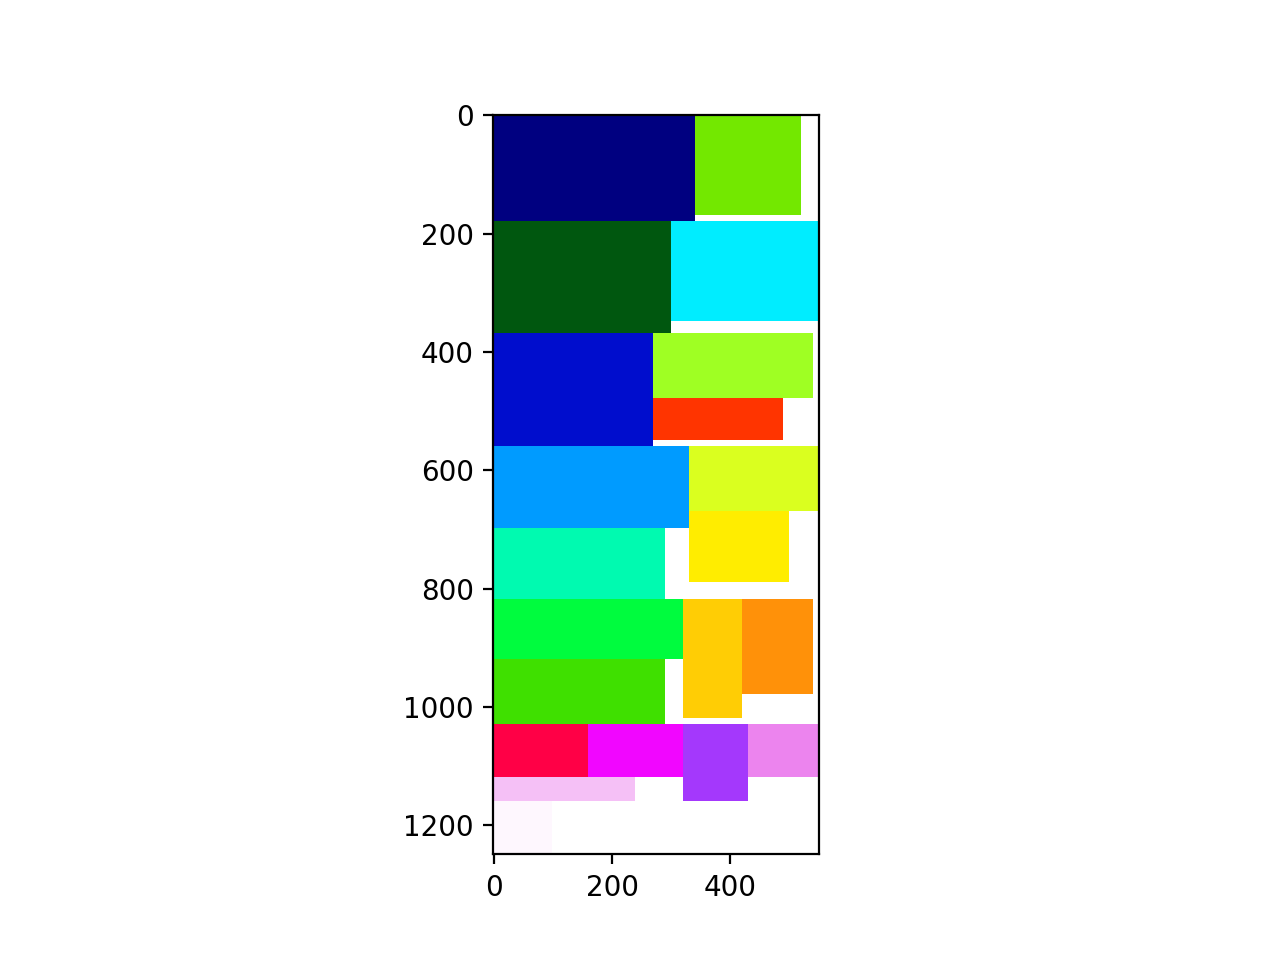
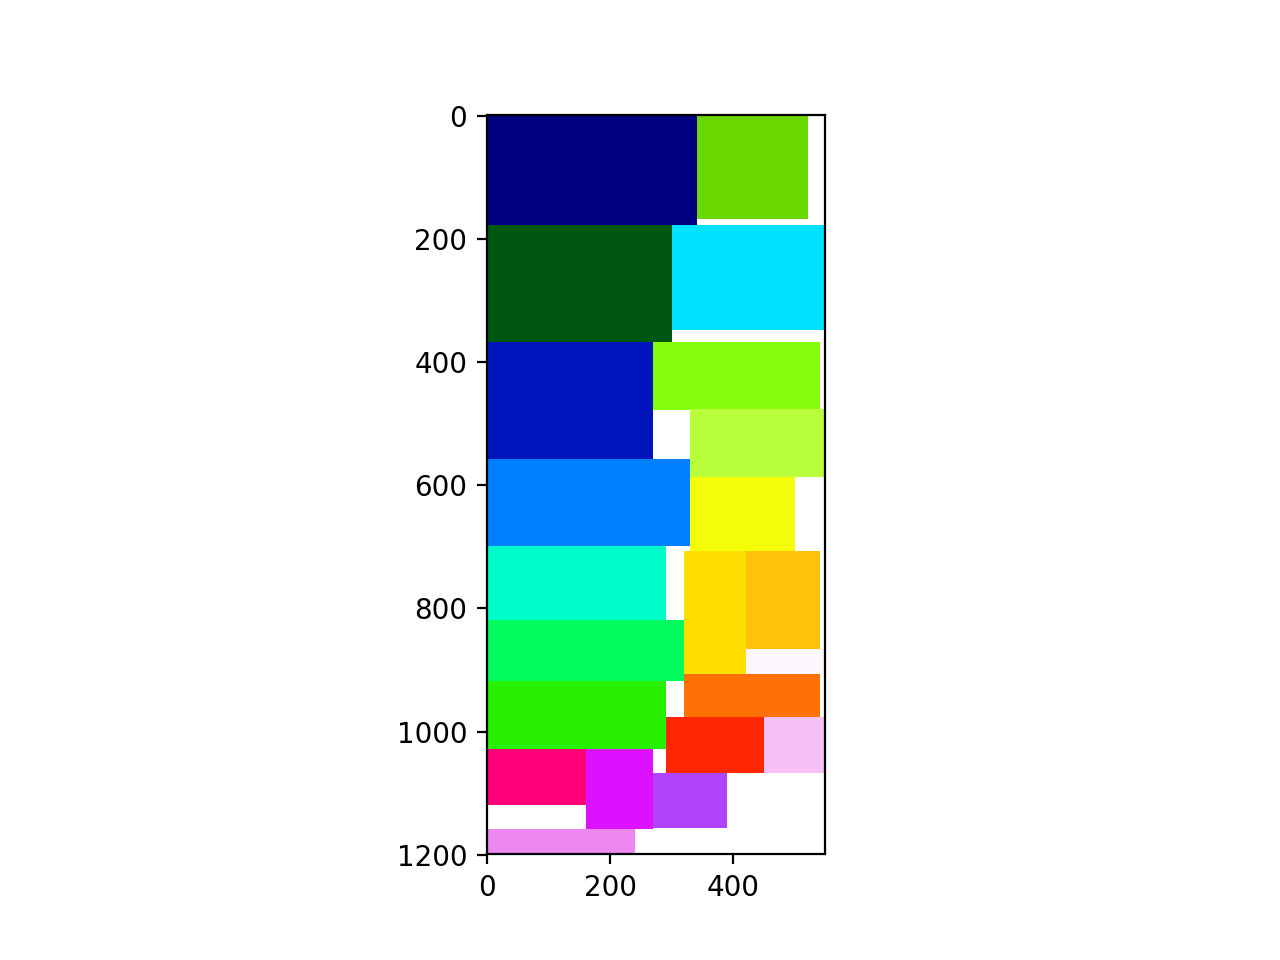
Update bottom left

Changed region(s): [[0.3125, 0.125, 0.6562, 0.9375], [0.5312, 0.9062, 0.5938, 0.9375], [0.3438, 0.0938, 0.375, 0.125]]

diff --git a/Code/helper.py b/Code/helper.py
@@ -230,6 +230,89 @@ def pack_bestfit(roll, skyline, bestFit, orderNum):
             roll[row + i][startingCol + j] = orderNum
     return roll
 
+def pack_bottom_left(rolltype, order,exercise):
+
+    # Initialize orderlist, remainingorders, maxlength and create grid of zeroes
+    orderlist = sorted_orders(order.orderlist)
+    maxLength = order.maxLengthRoll
+    roll = create_roll(maxLength, rolltype)
+
+    if exercise == 1:
+        remainingOrders = orderlist
+    elif exercise == 2:
+        remainingOrders = orderlist[0:30]
+    elif exercise == 3:
+        remainingOrders = orderlist[30:60]
+    elif exercise == 4:
+        remainingOrders = orderlist[0:20]
+    elif exercise == 5:
+        remainingOrders = orderlist[20:40]
+    elif exercise == 6:
+        remainingOrders = orderlist[40:52]
+
+    # Loop through remaining orders and delete suborder if suborder is packed
+    counter = 1
+    while remainingOrders:
+
+        # Print ordernumber
+        print("Ordernummer:")
+        print(counter)
+
+        # Check zero positions and empty spaces around the zero positions
+        emptyspaces = empty_space(roll)
+
+        # Check if suborder fits in empty space found by emptyspaces function
+        rowpos = 0
+        columnpos = 0
+        for i in range(len(emptyspaces)):
+            if emptyspaces[i][2] >= remainingOrders[0][1] and emptyspaces[i][3] >= remainingOrders[0][0]:
+                break
+
+        # Save upper left corner from the suborder
+        rowpos = emptyspaces[i][0]
+        columnpos = emptyspaces[i][1]
+
+        # Save upper right corner from the suborder
+        columnpos_r = emptyspaces[i][1] + remainingOrders[0][1] - 1
+
+        # Check empty space above upper right corner
+        possiblewasteright = 0
+        if emptyspaces[i][4] > 0:
+            n = 0
+            for m in range(rowpos, 0, -1):
+                if roll[m][columnpos_r] == 0:
+                    n += 1
+                if roll[m][columnpos_r] != 0:
+                    break
+            possiblewasteright = n
+
+        # Check empty space above upper left corner and upper right corner
+        if emptyspaces[i][4] <= possiblewasteright:
+            smallest = emptyspaces[i][4] - 1
+        else:
+            smallest = possiblewasteright - 1
+
+        # Count empty rows above suborder
+        freerows = 0
+        for q in range(rowpos, rowpos - smallest, -1):
+            for r in range(columnpos,columnpos_r):
+                if roll[q][r] != 0:
+                    break
+            freerows += 1
+
+        # If empty space is bigger than 1 move suborder up by amount of freerows
+        if smallest > 1:
+            rowpos = rowpos - freerows - 1
+
+        # Pack suborder and delete suborder from the list
+        roll[rowpos:remainingOrders[0][0]+rowpos,columnpos:remainingOrders[0][1]+columnpos] = counter
+        remainingOrders.pop(0)
+
+        # Go to next order in the list
+        counter +=1
+
+    return roll
+
 def rotation(subOrder):
     """
     This function rotates a sub order with 90 degrees.
@@ -431,7 +514,7 @@ def sorted_orders(orderlist):
     :return: A List of sorted orders
     """
     # use either sort_long, sort_short or sort_area
-    sortedOrders = sort_long(orderlist)
+    sortedOrders = sort_short(orderlist)
     return sortedOrders
 
 def visualisation(roll):

diff --git a/Code/bottomleft.py b/Code/bottomleft.py
@@ -1,70 +1,29 @@
 from helper import *
 from load_orders import *
 
-# Initialize orderlist, remainingorders, maxlength and create grid of zeroes
-orderlist = sorted_orders(order1.orderlist)
-remainingOrders = orderlist
-maxLength = order1.maxLengthRoll - 3000
-rollC = create_roll(maxLength, ROLL_C)
+# # Exercise A Pack steel roll(rolltype, ordernumber, exercise)
+# packedRoll = pack_bottom_left(ROLL_C,order1,1)
+# cost = cost(packedRoll)[1]
 
-# Loop through remaining orders and delete suborder if suborder is packed
-counter = 1
-while remainingOrders:
+# Exercise B Pack steel roll(rolltype, ordernumber, exercise)
+packedRoll1 = pack_bottom_left(ROLL_C,combinedOrders234,2)
+packedRoll2 = pack_bottom_left(ROLL_B,combinedOrders234,3)
+cost = cost(packedRoll1)[1] + cost(packedRoll2)[1]
 
-    # Check zero positions and empty spaces around the zero positions
-    emptyspaces = empty_space(rollC)
+# # Exercise B Pack steel roll(rolltype, ordernumber, exercise)
+# packedRoll1 = pack_bottom_left(ROLL_C,order5,4)
+# packedRoll2 = pack_bottom_left(ROLL_B,order5,5)
+# packedRoll3 = pack_bottom_left(ROLL_B,order5,6)
+# cost = cost(packedRoll1)[1] + cost(packedRoll2)[1] + cost(packedRoll3)[1]
 
-    # Check if suborder fits in empty space found by emptyspaces function
-    rowpos = 0
-    columnpos = 0
-    for i in range(len(emptyspaces)):
-        if emptyspaces[i][2] >= remainingOrders[0][1] and emptyspaces[i][3] >= remainingOrders[0][0]:
-            break
 
-    # Save upper left corner from the suborder
-    rowpos = emptyspaces[i][0]
-    columnpos = emptyspaces[i][1]
 
-    # Save upper right corner from the suborder
-    columnpos_r = emptyspaces[i][1] + remainingOrders[0][1] - 1
+# Get score
+print("The cost of this order is: € %.2f" % cost)
 
-    # Check empty space above upper right corner
-    possiblewasteright = 0
-    if emptyspaces[i][4] > 0:
-        n = 0
-        for m in range(rowpos, 0, -1):
-            if rollC[m][columnpos_r] == 0:
-                n += 1
-            if rollC[m][columnpos_r] != 0:
-                break
-        possiblewasteright = n
+# Get visualisation
+visualisation(packedRoll)
 
-    # Check empty space above upper left corner and upper right corner
-    if emptyspaces[i][4] <= possiblewasteright:
-        smallest = emptyspaces[i][4] - 1
-    else:
-        smallest = possiblewasteright - 1
 
-    # Count empty rows above suborder
-    freerows = 0
-    for q in range(rowpos, rowpos - smallest, -1):
-        for r in range(columnpos,columnpos_r):
-            if rollC[q][r] != 0:
-                break
-        freerows += 1
-    print("freerows")
-    print(freerows)
 
-    # If empty space is bigger than 1 move suborder up by amount of freerows
-    if smallest > 1:
-        rowpos = rowpos - freerows - 1
-
-    # Pack suborder and delete suborder from the list
-    rollC[rowpos:remainingOrders[0][0]+rowpos,columnpos:remainingOrders[0][1]+columnpos] = counter + 1
-    remainingOrders.pop(0)
-
-    # Go to next order in the list
-    counter +=1
-
-visualisation(rollC)
 

diff --git a/Code/classes.py b/Code/classes.py
@@ -35,5 +35,5 @@ class Order:
         """
         maxLength = 0
         for i in range(len(orderlist)):
-            maxLength += max(orderlist[i][0], orderlist[i][1])
+            maxLength += min(orderlist[i][0], orderlist[i][1])
         return maxLength
